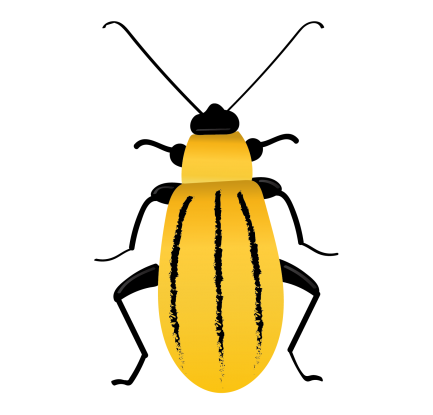
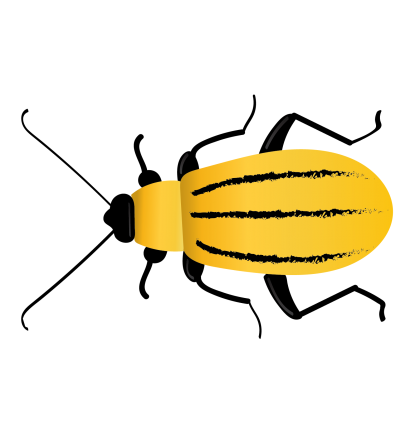
Fix initial rotation so worms point in the right direction while moving

diff --git a/src/species/rootworm.ts b/src/species/rootworm.ts
@@ -160,7 +160,10 @@ export const worm: ISpecies = new Species({
   },
   traits: wormTraits,
   imageProperties:
-    { rotate: true },
+    {
+      rotate: true,
+      initialRotationDirection: -Math.PI
+    },
   imageRules: [
     {
       name: 'worm',
@@ -171,7 +174,7 @@ export const worm: ISpecies = new Species({
             scale: 0.4,
             anchor: {
               x: 0.5,
-              y: 0.9
+              y: 0.5
             }
           },
           useIf(agent: IAgent) {
@@ -184,7 +187,7 @@ export const worm: ISpecies = new Species({
             scale: 0.5,
             anchor: {
               x: 0.5,
-              y: 0.9
+              y: 0.5
             }
           },
           useIf(agent: IAgent) {
@@ -197,7 +200,7 @@ export const worm: ISpecies = new Species({
             scale: 0.2,
             anchor: {
               x: 0.5,
-              y: 0.8
+              y: 0.5
             }
           },
           useIf(agent: IAgent) {
@@ -210,7 +213,7 @@ export const worm: ISpecies = new Species({
             scale: 0.25,
             anchor: {
               x: 0.5,
-              y: 0.8
+              y: 0.5
             }
           },
           useIf(agent: IAgent) {
@@ -222,8 +225,8 @@ export const worm: ISpecies = new Species({
             path: require('../images/rootworm-mature.png'),
             scale: 0.05,
             anchor: {
-              x: 0.5,
-              y: 0.6
+              x: 0.4,
+              y: 0.5
             }
           },
           useIf(agent: IAgent) {
